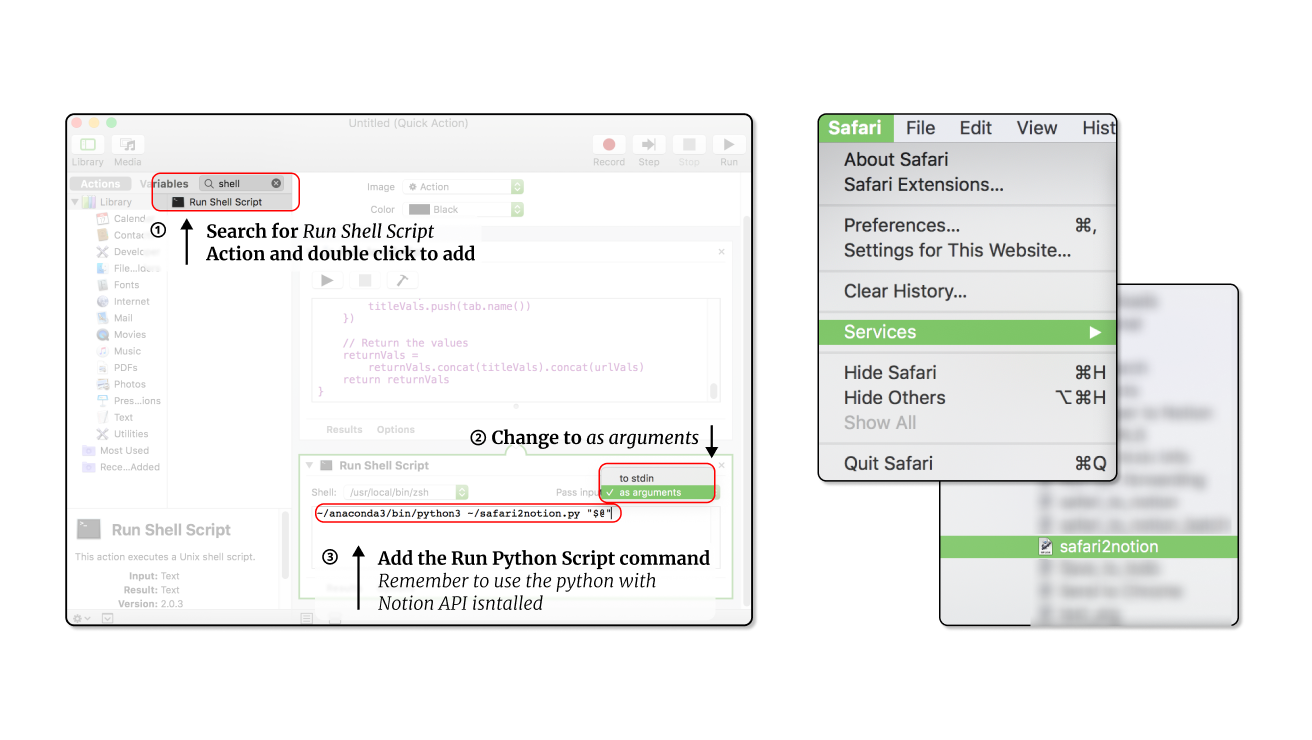
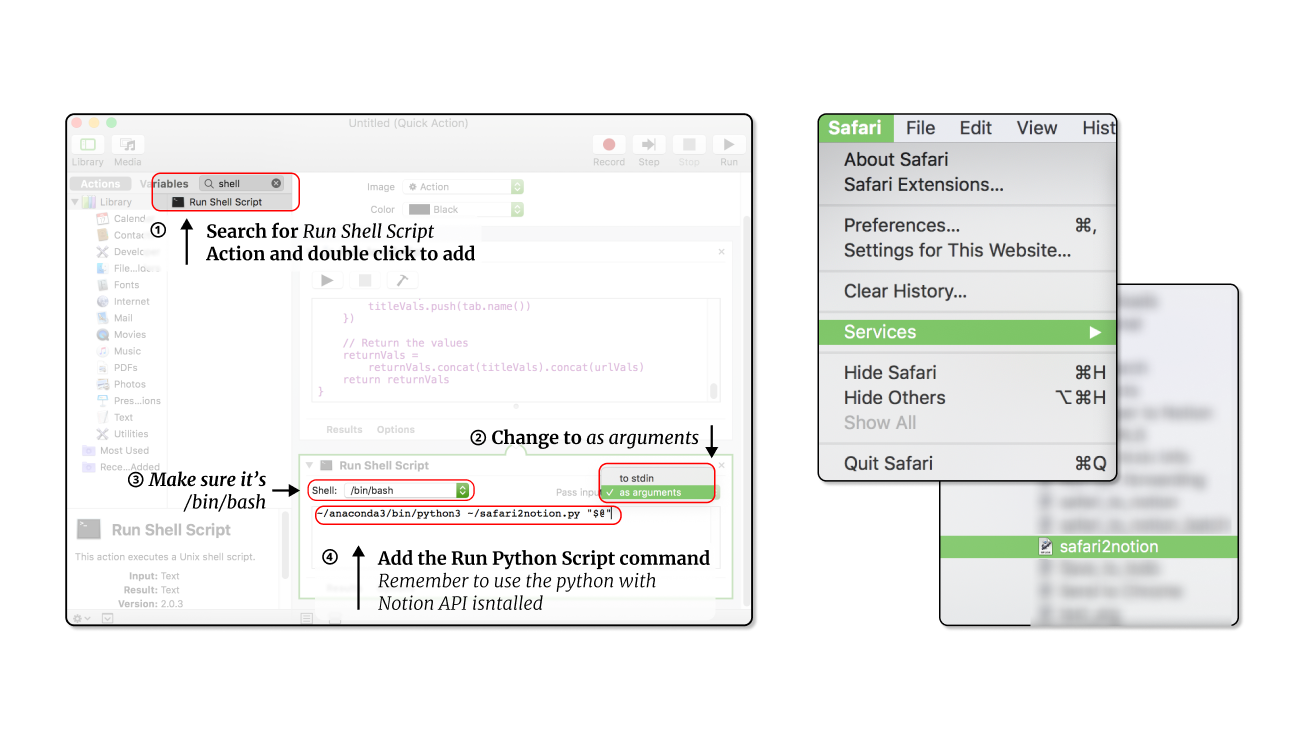
Details for python binding

Changed region(s): [[0.0938, 0.6216, 0.4688, 0.7149]]

diff --git a/README.md b/README.md
@@ -19,10 +19,10 @@ Build your own Notion Safari Extension and make it even better!
 
 3. Add the **absolute path** of the notion configuration file to the `automator_script.js` (line 11) and `safari2notion.py` (line 17) file. 
 
-4. Follow the instruction shown below to create a mac `Quick Action` and add the `automator_script.js` code to it. 
+4. Open the `automator` App on your Mac and create a new file (Command + N). Follow the instruction shown below to create a mac `Quick Action` and add the `automator_script.js` code to it. 
     ![create-automation](images/create-automation.png)
 
-5. Bind the automation with the python script `safari2notion.py`, and save the automation as `safari2notion`. Then you can find it in the Service menu in Safari. 
+5. Bind the automation with the python script `safari2notion.py` using the code `/path/to/your/python ~/path/to/safari2notion.py "$@"`, and save the automation as `safari2notion`. Then you can find it in the Service menu in Safari. 
     ![save-automation](images/save-automation.png)
 
 Congratulations! You've finished the configuration. You can further customize the code by modifying the `lib/processor.py` and `safari2notion.py` to your demand. 
